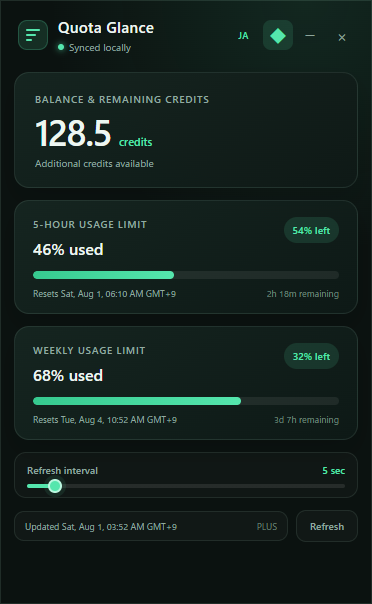
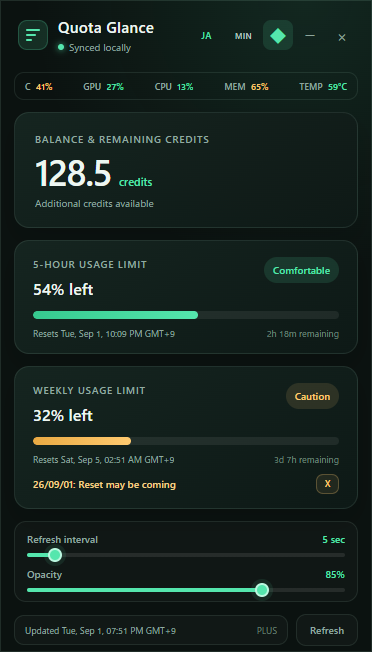
release: prepare Quota Glance 1.4.3

diff --git a/test/package-contract.test.js b/test/package-contract.test.js
@@ -1,0 +1,12 @@
+const test = require('node:test');
+const assert = require('node:assert/strict');
+const fs = require('node:fs');
+const path = require('node:path');
+
+test('electron is pinned to the package-lock version for reproducible Windows builds', () => {
+  const root = path.join(__dirname, '..');
+  const manifest = JSON.parse(fs.readFileSync(path.join(root, 'package.json'), 'utf8'));
+  const lock = JSON.parse(fs.readFileSync(path.join(root, 'package-lock.json'), 'utf8'));
+
+  assert.equal(manifest.devDependencies.electron, lock.packages['node_modules/electron'].version);
+});

diff --git a/RELEASE_NOTES.md b/RELEASE_NOTES.md
@@ -1,4 +1,4 @@
-# Quota Glance — Unreleased
+# Quota Glance 1.4.3
 
 ## Reset advisory feed
 
@@ -6,7 +6,6 @@
 - Only posts from the preceding three days are eligible for the public feed.
 - The card closes automatically when the weekly quota returns to 100%, or after 48 hours without a weekly-quota change.
 - The reset-advisory card is available in both standard and minimum modes.
-- Added C-drive free-space percentage to the compact system-status strip.
 
 # Quota Glance 1.4.2
 

diff --git a/README.md b/README.md
@@ -7,7 +7,6 @@ Quota Glanceは、Codexがローカルに記録した利用状況を小さな常
 ## 主な機能
 
 - 残高・残りクレジット
-- Cドライブ空き容量、GPU、CPU、MEM、TEMPのコンパクトなリアルタイム表示
 - 5時間利用上限の残り割合と状態色（緑・黄・赤）
 - 週間利用上限の残り割合と状態色（緑・黄・赤）
 - 各制限枠のリセット日時（日本時間）と残り時間
